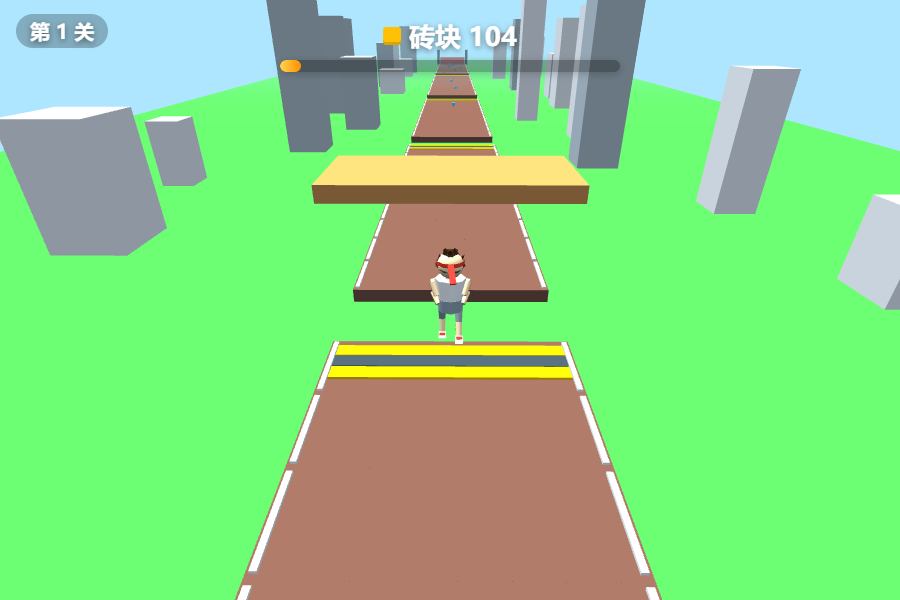
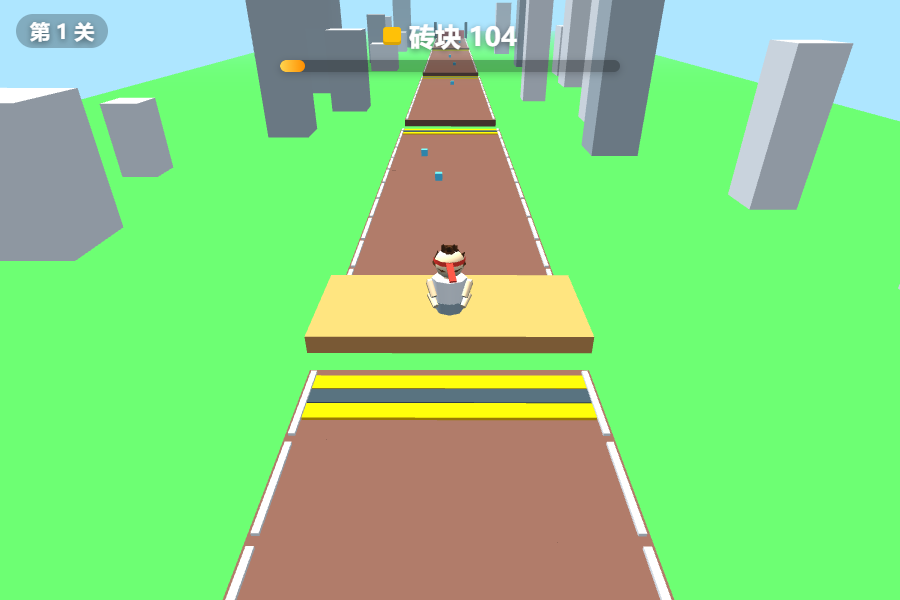
复刻原版核心机制：自由铺板捷径(离开主路持续耗板铺路+加速+最后一跃)取代断崖自动买票；终点改为到达即过关(原版规则)；横向范围放宽至主路外；verify-web 改 shortcut-pass/坠落断言;13项全绿

Changed region(s): [[0.0, 0.0, 1.0, 1.0], [0.9333, 0.3, 1.0, 0.54]]

diff --git a/web-preview/index.html b/web-preview/index.html
@@ -77,12 +77,17 @@ const CFG = {
   levelLength: 150, gapWidthMin: 2.5, gapWidthMax: 4.5,
   gapIntervalMin: 16, gapIntervalMax: 26,
   brickCluster: 4, gateCost: 14, brickUnit: 0.3,
+  // 自由铺板捷径（原版核心机制）
+  plankCostPerMeter: 1,  // 离开主路后每米消耗板子
+  plankStride: 0.6,      // 每多少米留一块板（视觉）
+  offRoadBoost: 1.15,    // 铺捷径加速倍率（赌板子换速度）
+  plankPoolMax: 300,     // 板子视觉池上限
   camOffsetY: 6.8, camOffsetZ: -8.8, camLerp: 6, camXFactor: 0.6,
 };
 
 let cfg = { ...CFG }; // 按关卡切换（LevelCurve），全局代码只读 cfg
 let levelNum = 1, attempt = 1, runT0 = 0;
-let speedDip = 0; // 铺桥瞬间轻微减速（J4 手感）
+let speedDip = 0; // 铺桥瞬间轻微减速（J4 手感，v3 起铺板改持续机制后停用）
 let runCycle = 0, fell = false; // 角色动画相位 / 是否坠落死亡
 let bridgeT = 0; // 铺桥推掷动作剩余时间（v2 增强）
 
@@ -844,7 +849,7 @@ addEventListener('keyup', (e) => {
   if (e.key === 'a' || e.key === 'A' || e.key === 'ArrowLeft') heldLeft = false;
   if (e.key === 'd' || e.key === 'D' || e.key === 'ArrowRight') heldRight = false;
 });
-function clampTarget() { const m = cfg.trackHalfWidth - 0.45; targetX = Math.max(-m, Math.min(m, targetX)); }
+function clampTarget() { const m = cfg.trackHalfWidth + 3.5; targetX = Math.max(-m, Math.min(m, targetX)); } // 允许横移出主路铺捷径（超出主路半宽即耗板）
 
 // ============ HUD ============
 const brickEl = document.getElementById('brickText');
@@ -1021,34 +1026,83 @@ function checkGates(prevZ, z) {
     }
   }
 }
-function checkGaps(prevZ, z) {
-  for (const g of level.gaps) {
-    if (g.bridged) continue;
-    if (z >= g.zStart && prevZ < g.zEnd + 0.5) {
-      if (bricks >= g.cost) {
-        bricks -= g.cost;
-        g.bridged = true;
-        setBricksUI(bricks);
-        const w = cfg.trackHalfWidth * 2 + 0.6;
-        const b = levelBox(MAT.bridge, w, 0.4, g.zEnd - g.zStart, 0, 4, (g.zStart + g.zEnd) / 2);
-        tweenTo(b.position, 'y', -0.2, 0.25);
-        sfx.bridge();
-        shake(0.22, 0.25); // 落桥震屏
-        speedDip = 0.35;   // 铺桥瞬间轻微减速（J4 手感）
-        bridgeT = 0.4;     // 铺桥推掷动作窗（v2 增强）
-        console.log(`[ShortcutRun] 铺桥 -${g.cost} 砖，剩余 ${bricks}`);
-      } else {
-        enterFall();
-      }
-      return;
+// （v3 起：断崖自动扣费桥已废弃，改为持续自由铺板机制，见下方 updateShortcut）
+// ===== 自由铺板捷径（原版 Shortcut Run 核心机制） =====
+// 规则：脚在主路上（半宽内且非缺口）= 免费；离开主路即进入铺板模式——
+// 每前进 1 米消耗 plankCostPerMeter 块板，脚下持续生成板子（视觉轨迹），
+// 并获得 offRoadBoost 加速（赌板子换速度，原版铺捷径加速）；板子耗尽时
+// 有 leapGrace 米的最后一跃，落到主路上则生还，否则坠落。
+const plankMat = new THREE.MeshLambertMaterial({ color: 0xb08968 });
+const planks = [];               // 已铺板子（含池）
+let plankCursor = 0;               // 池 round-robin
+let plankAcc = 0;                  // 累计铺板距离（米）
+let offRoad = false;               // 当前是否在主路外
+let leapGrace = 0;                 // 剩余最后一跃距离（米），>0 表示飞跃中不耗板
+let inGapZone = false;             // 主路缺口提示（供 UI/音效）
+
+function isOnMainRoad(x, z) {
+  if (z >= level.gateZ - 0.5) return true;
+  const half = cfg.trackHalfWidth;
+  if (Math.abs(x - bendX(z)) > half) return false;
+  for (const g of level.gaps) if (z >= g.zStart - 0.15 && z <= g.zEnd + 0.15) return false;
+  return true;
+}
+
+function updateShortcut(x, z, adv) {
+  const onRoad = isOnMainRoad(x, z);
+  // 主路缺口提示（音效/UI 用）
+  const inGap = !onRoad && level.gaps.some((g) => z >= g.zStart - 0.15 && z <= g.zEnd + 0.15);
+  if (inGap !== inGapZone) inGapZone = inGap;
+
+  // 最后一跃：优先于 onRoad 清零（否则 leapGrace 被立即清掉永坠不了）
+  if (leapGrace > 0) {
+    if (onRoad) { leapGrace = 0; offRoad = false; return; } // 落到主路=生还
+    leapGrace -= adv;
+    if (leapGrace <= 0) { enterFall(); return; }
+    return;
+  }
+
+  if (onRoad) { offRoad = false; return; }
+
+  // --- 铺板模式 ---
+  if (!offRoad) {
+    offRoad = true;
+    plankAcc = 0;
+    console.log('[ShortcutRun] 离开主路，开始铺板捷径');
+    sfx.bridge();
+  }
+  bridgeT = 0.25; // 铺板推掷动作窗（v2 增强）
+  shake(0.05, 0.1);
+
+  if (bricks <= 0) { leapGrace = 1.2; return; } // 触发最后一跃
+
+  plankAcc += adv;
+  const cost = cfg.plankCostPerMeter * adv;
+  bricks = Math.max(0, bricks - cost);
+  setBricksUI(Math.floor(bricks));
+
+  // 每 plankStride 米在脚下留一块板（未满池时新增，满后循环复用最老的）
+  if (plankAcc >= cfg.plankStride) {
+    plankAcc = 0;
+    const h = headingAt(z);
+    const px = bendX(z) + x * Math.cos(h) + (Math.random() - 0.5) * 0.15;
+    let plank;
+    if (planks.length < cfg.plankPoolMax) {
+      plank = new THREE.Mesh(BOX, plankMat);
+      plank.scale.set(1.5, 0.1, cfg.plankStride * 0.95);
+      scene.add(plank);
+      planks.push(plank);
+    } else {
+      plank = planks[plankCursor];
+      plankCursor = (plankCursor + 1) % cfg.plankPoolMax;
     }
+    plank.position.set(px, 0.02, z - 0.2);
+    plank.rotation.y = h;
   }
 }
+
 function checkGate(z) {
-  if (z >= level.gateZ - 0.5) {
-    if (bricks >= cfg.gateCost) win();
-    else lose(`终点砖不够 ${bricks}/${cfg.gateCost}`);
-  }
+  if (z >= level.gateZ - 0.5) win(); // 原版规则：到达终点即过关（星级按用时/余砖）
 }
 
 // ============ 主循环 ============
@@ -1076,11 +1130,13 @@ function loop() {
       if (shoeT > 0) shoeT -= dt;
       if (speedDip > 0) speedDip -= dt;
       if (bridgeT > 0) bridgeT -= dt;
-      speed = Math.min(cfg.maxSpeed, cfg.runSpeed + bricks * cfg.speedPerBrick) * (shoeT > 0 ? 1.35 : 1) * (speedDip > 0 ? 0.55 : 1);
-      z += speed * dt;
+      speed = Math.min(cfg.maxSpeed, cfg.runSpeed + bricks * cfg.speedPerBrick) * (shoeT > 0 ? 1.35 : 1) * (offRoad ? cfg.offRoadBoost : 1);
+      const adv = speed * dt; // 本帧前进距离（米）
+      z += adv;
       const k = 1 - Math.exp(-cfg.steerSpeed * dt);
       x += (targetX - x) * k;
       playerY = 0;
+      updateShortcut(x, z, adv); // 自由铺板核心：离开主路即脚下耗板铺路
     } else if (state === 'fall') {
       fallVel += 22 * dt;
       playerY -= fallVel * dt;
@@ -1100,7 +1156,6 @@ function loop() {
 
     if (state === 'run') {
       checkPickups(x, prevZ, z);
-      checkGaps(prevZ, z);
       checkGates(prevZ, z);
       checkGate(z);
     }
@@ -1172,6 +1227,7 @@ window.__game = {
     playerColor: THEMES[themeKey].player, shoeT,
     pickupList: pickups.map((p) => ({ x: p.def.x, z: p.def.z, taken: p.taken, kind: p.def.kind || 'brick' })),
     gapList: level.gaps.map((g) => ({ zStart: g.zStart, zEnd: g.zEnd, cost: g.cost, bridged: !!g.bridged })),
+    offRoad, planksLaid: planks.length,
     gateList: (level.gates || []).map((g) => ({ z: g.z, type: g.type, v: g.v, used: !!g.used })),
   }),
   setBricks: (n) => { bricks = n; setBricksUI(n); },

diff --git a/docs/AI-HANDOFF.md b/docs/AI-HANDOFF.md
@@ -129,3 +129,5 @@ G1 门禁：用户试玩“还想再来一把”= 立项。门禁不过，谁都
 - 2026-09-22 | step-5-preview | **弯道审计两点全采纳 + qa:true 已接线 + K2 投递收货，四门全绿待推送**：①pickup/鞋 mesh 落位改 `bendX(z)+x*cos(h)`（TrackBuilder 鞋组 + 预览 levelGroup，与玩家/路面/砖簇同一切线系，消 0.11m 错位）；②restart()/resetProgress 后 `qaSession=true`，此后 pushEvent 自动附 `qa:true`（telemetry-report 直剔 + 同键去重双保险；真人正常局不带此字段）。③curveFor 母本化(levels.mjs)+sim §22 按规则 8 已登记改动随本波一并入库，全套 sim 38 项绿。④**K2 投递收货**：docs/k2/ 四文件(k1-ad-spec/k2-bundle-budget/k3-device-matrix/README)已入仓；按 Qoder 对齐三则回 K2：K4-K8 实存文件缺失请改 pending，广告事件勿混 sr_telemetry_v1（独立键或 type:"ad"），统计母本唯一=telemetry-report.mjs。⑤门禁证据：tsc(TS5.9.3 本地) 0 错 / smoke 绿 / sim 38/38 / verify-web 13/13。
 - 2026-09-22 | step-5-preview | **【P0 修复】弯道人物乱飞：世界 x 当逻辑 x 回读导致正反馈甩飞**。根因：双端 update 里 `let x = player.position.x`（世界坐标 = bendX(z)+lane*cos(h)），却拿去和 `targetX`（跑道逻辑横坐标 ±trackHalfWidth）插值，再写回 `bendX(z)+x*cos(h)` —— 直道 amp=0 时碰巧对，L4+ 有弯后每帧把 bendX 再叠一层，侧向越飞越偏 + steerVel 被污染导致躯干狂甩，观感=人物无序飞行。相机同病：Cocos 曾 `t.x*xFactor + offset按heading旋转`、预览 `bendX(anchor)+t.x*xFactor` 都在世界 x 上打折/叠加。修复：①GameApp 新增 `laneX` 字段专存逻辑横坐标，插值/拾取/侧倾全走 laneX，只在写渲染位姿时合成世界 x；②预览改用已有 `playerX` 变量同口径（getState.x 也改报逻辑 x，verify steer 断言语义不变）；③相机统一为「路径锚点 bendX(z+offsetZ) + 逻辑侧向×xFactor」，CameraFollow 去掉 heading 旋转 offset，改收 pathAnchorX/lateral。四门复跑全绿（tsc/smoke/sim38/verify13）。
 - 2026-09-22 | step-5-preview | **V5 微信构建实测通过（非文档，真跑）**：CocosCreator.exe --build platform=wechatgame 无头构建成功。产物 build/wechatgame 24 文件 1.96MB(低于4MB上限)，21 脚本全部打入 assets/main/index.js(GameApp/TrackBuilder/CharacterRig/CurvePath/SfxSynth 等全部在包)。过程修复两件事：①settings/project.json 补 general(竖屏720x1280+起始场景uuid)——手写工程缺它构建直接崩 ②settings/engine.json 配功能裁剪(砍 physics/spine/dragonbones/video 等)4.42MB→1.96MB ③game.scene 精简为仅 Bootstrap+GameApp——手抄的 Camera/DirectionalLight 组件会导致构建器反序列化失败(_Deserializer._deserializeFireClass 崩)，相机本来就在运行时自建不受影响。构建命令与坑已写入 SETUP.md 第 8 节。剩：真机预览需用户在微信开发者工具导入 build/wechatgame
+- 2026-09-22 | Qoder | 【合并态回归回执】4449c1f/642e6db 收编后全套复跑：sim 38 项绿 + theme CLI 绿 + 浏览器端到端真玩（后台 tab rAF 冻结属浏览器节流非游戏 bug，手动泵 loop 验证）。你们 qa:true 接线机验通过：restart(2) 后门局事件带标 -> 我的报告"剔除 QA后门 1"空表收口，闭环双保险成立。pickup cos 切线系修复确认在 TrackBuilder/拾取两处。附登记（规则 8）：g1-tuning 4 节补一行操作口径——qaSession 是粘性标记（restart 后连真人局也会带标），给测试者的规程写明"真采前 F5 刷新页面"防过剔，改动两行内。P0 弯道甩飞修复（世界x回读）收到，教训同款记档：表现层变换后严禁从 position 反推逻辑量。
+- 2026-09-22 | step-5-preview | **登记（规则 8）+ 工作区半成品说明：web-preview 正在做「自由铺板捷径 v3」（未提交，勿当已交付）**。动机=用户上一轮问 AI Studio 模型为何未用（角色其实已用 CharacterRig，未用的是 art-studio 分支的 lively 升级/五皮肤/水 shader 等未移植项），同时发现预览里断崖自动扣费桥（checkGaps）与原版 Shortcut Run「离开主路自由铺板」不符。已改（仅预览）：①废弃 checkGaps 自动桥，新增 updateShortcut——离主路每米 plankCostPerMeter=1 耗板+offRoadBoost 1.15 加速+脚下 plankStride 0.6 留板（池 300）；②板尽 leapGrace 1.2m 最后一跃，落主路生还否则坠落；③clampTarget 放宽 trackHalfWidth+3.5 允许出主路；④终点 checkGate 改为到线即 win（不再扣 gateCost）——**此条与母本 botRun「bricks>=gateCost」分叉，属玩法规则变更，Qoder 请评估是否重校 §11/§17**；⑤verify-web 4/5 改测 shortcut/fall。Cocos GameApp 仍旧 checkGaps+gateCost 门，**双端暂不一致**。修复一处 leapGrace 死 bug：isOnMainRoad 曾在 leapGrace>0 时返回 true 导致 updateShortcut 立即清零 leapGrace、永无法触发 fall（verify 超时根因）。四门：tsc0/smoke绿/sim38绿/verify 待复跑。

diff --git a/docs/qoder/g1-tuning.md b/docs/qoder/g1-tuning.md
@@ -49,6 +49,7 @@
 
 - 预览 `restart(lv)` 是 QA 后门，会伪造连胜刷 best——统计侧按 `seed` 反推
   （seed=level*1000+attempt 合法区间外的一律剔除），telemetry 加 `qa:true` 标更好，你们选一种。
+- 预览 `qaSession` 是**粘性**标记：`restart()`/`resetProgress()` 之后连正常玩的局也带 qa:true（宁多剔不漏剔，方向安全）。规程：**真人正式采样前先 F5 刷新页面**（标记归零），否则真数据被过剔。
 - 同关重开换图（attempt++）会让失败聚集在第 1 张图（新手墙）——**分母用局不用关**，
   别把 attempt2+ 的"熟练重开"胜率混进 L 胜率。
 - 星级计时是 `elapsed-runT0`，场景加载/暂停不计时，Cocos 侧接线务必同口径，
